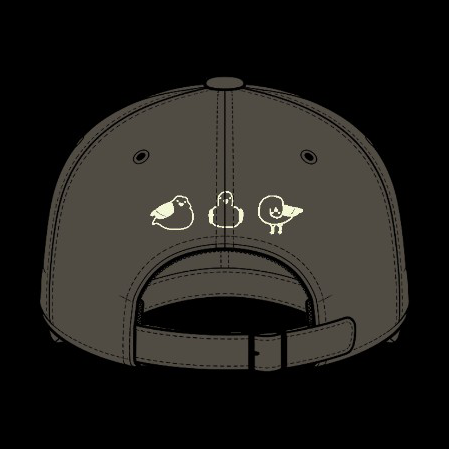
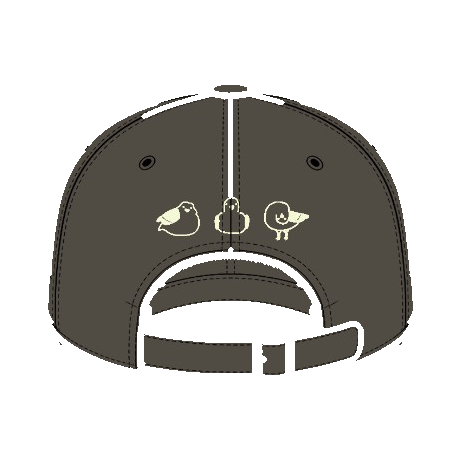
Use white-background cap photos and show one-size fit on the product page.

diff --git a/supabase/functions/server/init-products.tsx b/supabase/functions/server/init-products.tsx
@@ -334,8 +334,8 @@ const INITIAL_PRODUCTS: Product[] = [
     },
     price: 30.0,
     images: [
-      '/images/caps/cap-blue-front.png?v=20260903c',
-      '/images/caps/cap-blue-back.png?v=20260903c',
+      '/images/caps/cap-blue-front.png?v=20260903w',
+      '/images/caps/cap-blue-back.png?v=20260903w',
     ],
     category: 'apparel',
     tags: ['apparel', 'new'],
@@ -347,20 +347,20 @@ const INITIAL_PRODUCTS: Product[] = [
     },
     colorImages: {
       Blue: [
-        '/images/caps/cap-blue-front.png?v=20260903c',
-        '/images/caps/cap-blue-back.png?v=20260903c',
+        '/images/caps/cap-blue-front.png?v=20260903w',
+        '/images/caps/cap-blue-back.png?v=20260903w',
       ],
       'Dark Green': [
-        '/images/caps/cap-darkgreen-front.png?v=20260903c',
-        '/images/caps/cap-darkgreen-back.png?v=20260903c',
+        '/images/caps/cap-darkgreen-front.png?v=20260903w',
+        '/images/caps/cap-darkgreen-back.png?v=20260903w',
       ],
       Khaki: [
-        '/images/caps/cap-khaki-front.png?v=20260903c',
-        '/images/caps/cap-khaki-back.png?v=20260903c',
+        '/images/caps/cap-khaki-front.png?v=20260903w',
+        '/images/caps/cap-khaki-back.png?v=20260903w',
       ],
       Teal: [
-        '/images/caps/cap-teal-front.png?v=20260903c',
-        '/images/caps/cap-teal-back.png?v=20260903c',
+        '/images/caps/cap-teal-front.png?v=20260903w',
+        '/images/caps/cap-teal-back.png?v=20260903w',
       ],
     },
     colorLabels: {
@@ -368,6 +368,12 @@ const INITIAL_PRODUCTS: Product[] = [
       'Dark Green': { en: 'Dark Green', cn: '墨绿' },
       Khaki: { en: 'Khaki', cn: '卡其' },
       Teal: { en: 'Teal', cn: '天蓝' },
+    },
+    sizeGuide: {
+      'One Size': {
+        en: 'One size · adjustable strap, fits most adults',
+        cn: '均码 · 可调节帽围，适合大多数成人',
+      },
     },
   },
 ];

diff --git a/src/app/components/ProductDetail.tsx b/src/app/components/ProductDetail.tsx
@@ -137,7 +137,7 @@ export default function ProductDetail() {
       <div className="max-w-7xl mx-auto px-3 sm:px-4 md:px-6 lg:px-8 py-4 sm:py-6 md:py-8">
         <div className="grid grid-cols-1 md:grid-cols-2 gap-4 sm:gap-6 md:gap-8 lg:gap-12">
           {/* Image Gallery - Slider */}
-          <div className="relative aspect-square bg-black rounded-lg overflow-hidden group">
+          <div className="relative aspect-square bg-white rounded-lg overflow-hidden group border border-gray-100">
             {effectiveImages.length > 0 ? (
               <>
                 {/* Image Slider Container - 点击打开预览 */}
@@ -285,6 +285,16 @@ export default function ProductDetail() {
                         );
                       })}
                     </div>
+                    {productData.sizeGuide && (
+                      <p className="text-sm text-gray-500 mt-3">
+                        {t('Size:', '尺码：')}
+                        <span className="font-medium text-gray-700 ml-1">
+                          {language === 'en'
+                            ? Object.values(productData.sizeGuide)[0].en
+                            : Object.values(productData.sizeGuide)[0].cn}
+                        </span>
+                      </p>
+                    )}
                   </div>
                 ) : (
                   /* 普通尺码选择器 */

diff --git a/src/app/data/products.ts b/src/app/data/products.ts
@@ -41,7 +41,7 @@ import looseLeafImg2 from 'figma:asset/fb286fefa9238350a7ffcbeae8d165c1f8e87fc9.
 import looseLeafImg3 from 'figma:asset/d343d9da90100a6b5cc97428e040b9643c7ce221.png';
 
 // Helper function to get local image URL from public folder
-export const getLocalImageUrl = (path: string) => `/images/${path}?v=20260903c`;
+export const getLocalImageUrl = (path: string) => `/images/${path}?v=20260903w`;
 
 // Keep GitHub URL as fallback
 const GITHUB_IMAGE_BASE_URL = 'https://raw.githubusercontent.com/Miyeon-0131/SCS/main';
@@ -382,6 +382,12 @@ export const products: Product[] = [
       'Dark Green': { en: 'Dark Green', cn: '墨绿' },
       Khaki: { en: 'Khaki', cn: '卡其' },
       Teal: { en: 'Teal', cn: '天蓝' },
+    },
+    sizeGuide: {
+      'One Size': {
+        en: 'One size · adjustable strap, fits most adults',
+        cn: '均码 · 可调节帽围，适合大多数成人',
+      },
     },
   },
 ];

diff --git a/src/app/components/ProductCard.tsx b/src/app/components/ProductCard.tsx
@@ -33,7 +33,7 @@ export const ProductCard = React.memo(({
       className="bg-card rounded-lg overflow-hidden shadow-md hover:shadow-xl transition-shadow cursor-pointer group border border-border"
     >
       {/* Product Image */}
-      <div className="relative aspect-square bg-black overflow-hidden">
+      <div className="relative aspect-square bg-white overflow-hidden">
         {primaryImage ? (
           <OptimizedImage
             src={primaryImage}

diff --git a/src/app/data/product-images.ts b/src/app/data/product-images.ts
@@ -57,8 +57,8 @@ export const productImages: Record<number, string[]> = {
   11: [sweatpantsImg1, sweatpantsImg2, sweatpantsImg3],
   12: [frisbeeImg],
   16: [
-    '/images/caps/cap-blue-front.png?v=20260903c',
-    '/images/caps/cap-blue-back.png?v=20260903c',
+    '/images/caps/cap-blue-front.png?v=20260903w',
+    '/images/caps/cap-blue-back.png?v=20260903w',
   ],
 };
 

diff --git a/src/app/hooks/useProducts.ts b/src/app/hooks/useProducts.ts
@@ -143,6 +143,7 @@ function enrichColorVariantsFromLocal(product: Product): Product {
   if (local.colorImages) {
     next.images = local.images;
     next.price = local.price;
+    next.sizeGuide = local.sizeGuide ?? product.sizeGuide;
   }
   return next;
 }
